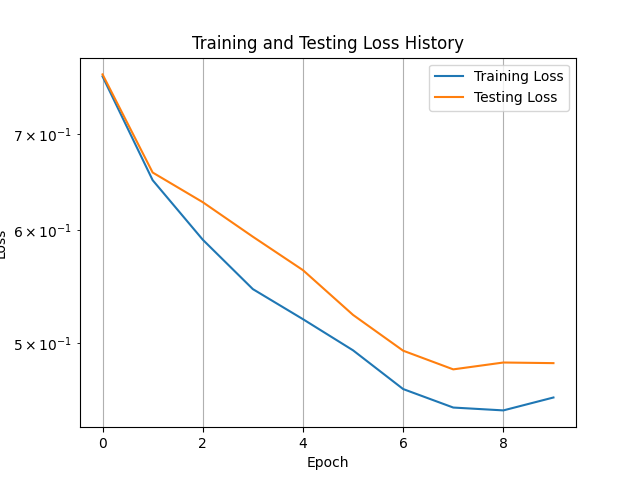
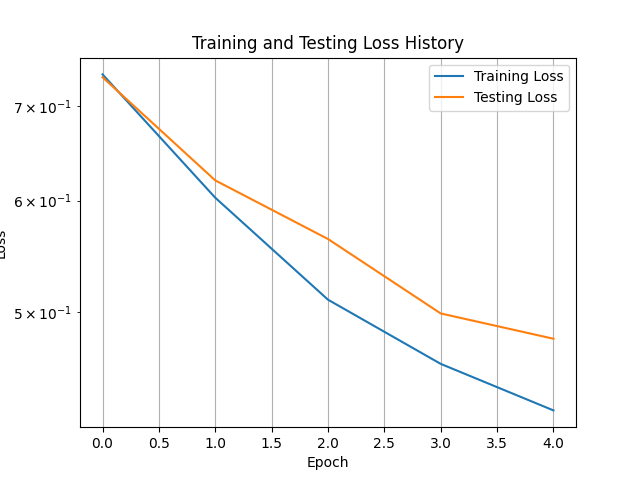
prepping for formation flight simulation training

diff --git a/main.py b/main.py
@@ -4,9 +4,9 @@ from src.surrogate import Surrogate
 if __name__ == "__main__":
     
     
-    ellipse_model = Surrogate(config_path="configs/config_ellipse.yaml")
-    # ellipse_model._train()
+    ellipse_model = Surrogate(config_path="configs/config_ellipse_super_computer.yaml")
+    ellipse_model._train()
     # ellipse_model._infer_and_validate(file="Data/ellipse_data/ellipse_data_unseen2.csv")
-    ellipse_model._inference(file="Data/ellipse_data/ellipse_data_unseen2.csv")
+    # ellipse_model._inference(file="Data/ellipse_data/ellipse_data_unseen2.csv")
 
 

diff --git a/src/preprocess/methods_preprocess.py b/src/preprocess/methods_preprocess.py
@@ -19,7 +19,7 @@ class MethodsPreprocess:
 
             
             param_vec = df[self.param_columns].to_numpy()
-            param_vec = self._reduce_params(param_vec)
+            # param_vec = self._reduce_params(param_vec)
 
             self.coords.append(coords)
             self.params.append(param_vec)
